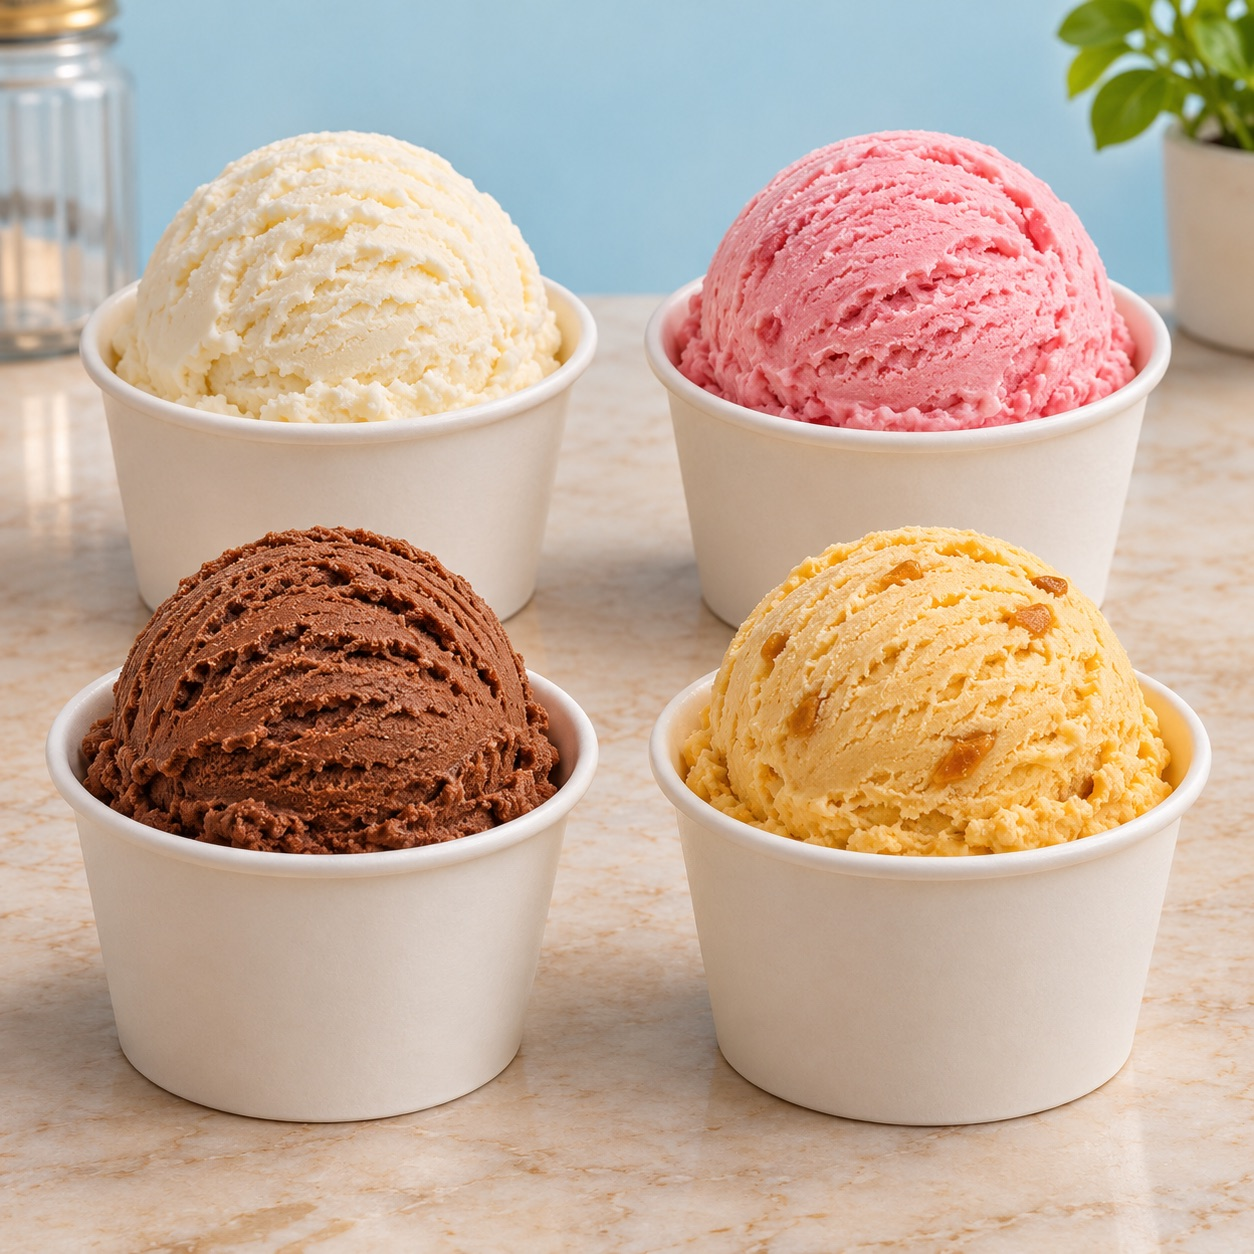
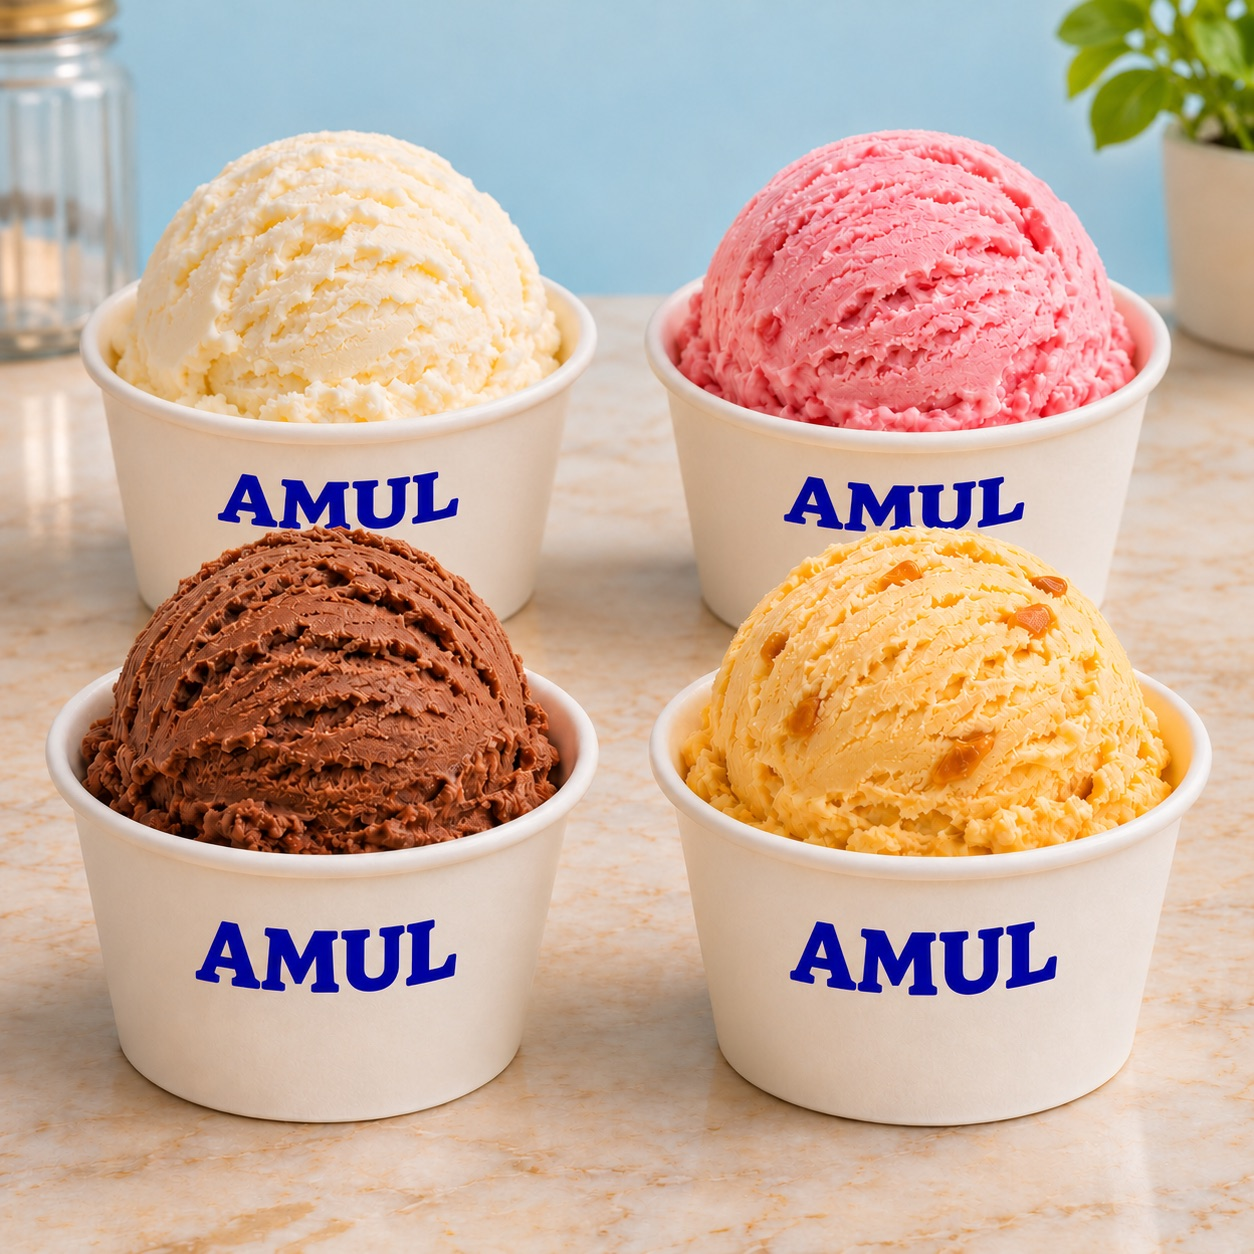
Finish TV ad and branded scoop photos

diff --git a/cafe-app/public/ads/ads.css b/cafe-app/public/ads/ads.css
@@ -7,3 +7,110 @@
 .stage-live.is-stale{color:#ffd7c5}.stage-live.is-stale i{background:#ffce9f}
 @media(min-width:1200px){.slide-item{font-size:clamp(16px,1vw,20px);padding:13px 18px}.slide-note{font-size:17px}.stage-live,.slide-count,.slide-kicker{font-size:13px}}
 @media(max-width:760px){.stage{height:auto;min-height:0;background:radial-gradient(circle at 85% 18%,#705a58 0,#19354b 42%)}.stage::before,.stage::after{display:none}.slide{flex:none}.stage:fullscreen{overflow-y:auto}}
+
+/* Natural presentation palette for the in-café television. */
+:root{color:#29423d;background:#f6f3ea}
+body{background:#f6f3ea}
+.site-header{background:#f7f4eb;color:#29423d;border-bottom:1px solid #dbe4d8}
+.brand-mark{background:#e4edf1;color:#1767a6}
+.brand b{color:#1767a6}
+.brand small{color:#537365}
+.header-links a:not(.header-cta){color:#345b50}
+.header-cta{background:#1767a6;color:#fff}
+.stage{height:calc(100svh - 76px);min-height:650px;background:linear-gradient(118deg,#e8f0e7 0%,#f2f3e9 52%,#e3ece3 100%);color:#25443e}
+.stage::before{top:-24%;right:-12%;background:radial-gradient(circle,#bbd1bd99 0,#bbd1bd33 55%,transparent 72%)}
+.stage::after{bottom:-42%;left:-11%;background:radial-gradient(circle,#fff9e8d9 0,#fff9e844 55%,transparent 72%)}
+.stage-grain{opacity:.055}
+.stage-live,.slide-kicker{color:#476e58}
+.stage-live i{background:#89a889;box-shadow:0 0 0 5px #89a88922}
+.slide-count{color:#527465}
+.slide{max-width:1750px}
+.slide-copy h1,.slide-copy h2{font-size:clamp(58px,6.25vw,140px);line-height:1.02;color:#24433c}
+.slide-copy h1 em,.slide-copy h2 em{color:#1767a6}
+.slide-description{color:#4a665a;font-size:clamp(19px,1.7vw,31px)}
+.slide-item{border-color:#c5d6c6;background:#fffcf3dc;color:#29483f;box-shadow:0 5px 18px #41644e0b}
+.slide-item strong,.slide-note{color:#1767a6}
+.slide-visual::before{background:#cfddcb;box-shadow:0 0 0 26px #ffffff55,0 0 0 58px #ffffff34}
+.slide-visual img{box-shadow:0 30px 70px #3c5b4a3b}
+.slide-sticker{background:#f6eddb;color:#2b5144;border:1px solid #d7ddce;box-shadow:0 12px 30px #2d4d3940}
+.stage-loading{color:#426c55}
+.progress-track{background:#bbccc0}
+.progress-track span{background:#1767a6}
+.control-label{color:#527365}
+.control-buttons button{background:#fffdf8bb;border-color:#b5cabc;color:#25443e}
+.control-buttons button:hover{background:#fff}
+.stage-loading button{background:#1767a6;color:#fff}
+.stage-live.is-stale{color:#8b624f}
+.stage-live.is-stale i{background:#b38768}
+.eyebrow{color:#527c5f}
+.period{color:#1767a6}
+.offers-section,.menu-section{background:#f6f3ea}
+.section-heading p{color:#65796c}
+.offer-card{background:#edf2e8;border-color:#d2dfd0;color:#25443e}
+.offer-card:nth-child(3n+2){background:#f7f1e4;border-color:#e5ddc8}
+.offer-card:nth-child(3n){background:#e9f0eb;border-color:#cadbce}
+.offer-card::after{color:#ffffff80}
+.offer-badge{background:#dfeaf1;color:#1767a6}
+.offer-card p{color:#587164}
+.category-nav{background:#f6f3ea}
+.category-nav a{border-color:#d6dfd1;background:#fffdf7;color:#315749}
+.category-nav a:hover{background:#e5eee3}
+.category-number{color:#5f7f68}
+.category-heading p{color:#708276}
+.menu-card{border-color:#dfe7dc;box-shadow:0 8px 20px #415e4810}
+.menu-photo{background:linear-gradient(135deg,#e6eee2,#f4e8d8)}
+.menu-price{color:#1767a6}
+.menu-card p{color:#6b8073}
+.end-card{background:#e3eee3;color:#28473d;border:1px solid #ccddcb}
+.end-card .eyebrow{color:#5c8265}
+.end-card p{color:#557263}
+.end-card a{background:#1767a6;color:#fff}
+.site-footer{background:#ecf1e8;color:#476452;border-top:1px solid #d7e2d5}
+.site-footer b{color:#1767a6}
+
+@media(min-width:1200px){
+  .site-header{min-height:82px;padding-inline:clamp(40px,5vw,100px)}
+  .brand-mark{width:48px;height:48px;font-size:32px}
+  .brand b{font-size:25px}
+  .brand small{font-size:11px}
+  .header-links a{font-size:17px}
+  .stage{height:calc(100svh - 82px);min-height:620px}
+  .stage-top{padding-top:32px}
+  .slide{grid-template-columns:minmax(0,1.05fr) minmax(0,.95fr);padding-top:36px;padding-bottom:48px}
+  .slide-kicker,.stage-live,.slide-count{font-size:16px}
+  .slide-description{max-width:650px}
+  .slide-item{font-size:clamp(18px,1.1vw,23px);padding:15px 21px}
+  .slide-note{font-size:20px}
+  .slide-visual img{width:min(98%,720px);max-height:min(68vh,760px)}
+  .slide-sticker{width:clamp(140px,10vw,190px);font-size:clamp(17px,1.2vw,22px)}
+  .control-label{font-size:15px}
+  .control-buttons button{min-width:50px;min-height:50px;font-size:16px}
+  .control-buttons #play-pause{min-width:82px}
+}
+@media(max-width:760px){
+  .stage{height:auto;min-height:0;background:radial-gradient(circle at 85% 18%,#d2e0d1 0%,#edf2e7 50%,#f8f4e8 100%)}
+  .stage::before,.stage::after{display:none}
+  .slide{flex:none}
+  .slide-copy h1,.slide-copy h2{font-size:clamp(45px,10vw,74px)}
+  .slide-description{font-size:16px}
+  .slide-item{font-size:11px}
+  .stage:fullscreen{overflow-y:auto}
+}
+@media(max-width:480px){
+  .slide-copy h1,.slide-copy h2{font-size:clamp(39px,10vw,55px)}
+  .slide-description{font-size:14px}
+  .slide-item{font-size:10px}
+}
+@media(min-width:761px){
+  .stage{background:radial-gradient(ellipse at 83% 18%,#d8e7d8 0%,transparent 39%),radial-gradient(ellipse at 9% 88%,#f8f1df 0%,transparent 42%),linear-gradient(118deg,#e9f0e7,#f4f2e8 55%,#e7efe5)}
+  .stage::before,.stage::after{display:none}
+  .stage-top{padding-top:18px}
+  .slide{padding-top:10px;padding-bottom:10px}
+  .slide-copy h1,.slide-copy h2{font-size:clamp(55px,5.6vw,112px);margin:12px 0 16px}
+  .slide-description{font-size:clamp(18px,1.5vw,28px);margin-bottom:18px}
+  .slide-items{gap:8px}
+  .slide-item{padding:10px 14px}
+  .slide-visual{min-height:0}
+  .slide-visual img{max-height:min(58vh,610px)}
+  .stage-controls{padding-bottom:14px}
+}

diff --git a/cafe-app/public/ads/index.html b/cafe-app/public/ads/index.html
@@ -3,7 +3,7 @@
 <head>
   <meta charset="utf-8">
   <meta name="viewport" content="width=device-width, initial-scale=1, viewport-fit=cover">
-  <meta name="theme-color" content="#152a3f">
+  <meta name="theme-color" content="#f6f3ea">
   <meta name="description" content="Explore Amul Ice Cream Café favourites, current offers, and the complete café menu.">
   <link rel="icon" href="/icon.svg" type="image/svg+xml">
   <link rel="stylesheet" href="/ads/ads.css">

diff --git a/cafe-app/README.md b/cafe-app/README.md
@@ -13,13 +13,16 @@ Use one address for the whole café: `https://frostflow-cafe.manideepyeredla2301
 | `/pos/` | Tablet and retail counter orders, payment records, receipts |
 | `/kitchen/` | Live prepared-food queue and cook instructions |
 | `/admin/` | Owner catalogue, stock, reports, staff, offers, settings |
+| `/ads/` | Looping café commercial for a TV, plus the complete customer menu |
 | `/kitchen/qr.html` | Managed and printable QR cards |
 
 All pages use the same database-backed API. New QR orders have an active managed QR ID. Staff POS orders do not need a QR code. Retail-only transactions complete without a kitchen ticket; a promotional free prepared item still creates a kitchen ticket. Customer checkout never collects money or marks a payment complete. Cash, UPI, and card are recorded manually by staff after the payment happens outside the site. Checkout takes the customer's name and Indian mobile number. The POS **Billed orders** screen shows recent QR and counter orders, including paid and unpaid orders; **Held orders** shows saved carts separately. A bill can be opened, printed, or prepared as a WhatsApp message for staff to send manually.
 
 The former `frostflow-pos` address redirects its page entries to the POS on the café address. Staff should use the café address above for a single sign-in and shared navigation. Deploy the legacy redirect with `npm run deploy:pos` when its Worker changes.
 
-The seed migration imports the 68 finalized café products and prices, including ₹90 veg and ₹120 chicken burgers with an optional ₹10 cheese slice. The retail migration adds 243 distinct products from FrostFlow's curated Amul catalogue to the staff POS, including all 167 listed ice creams. Retail categories remain hidden from customer QR ordering. Current printed MRPs are used as price candidates; 45 products with missing or conflicting prices or pack details need owner review before sale. A separate opening-stock migration adds 20 pieces per packaged SKU (4,860 pieces total), with individual inventory movements and batches; café stock remains separate from FrostFlow distribution inventory. Batch expiry dates were not supplied. The 48 distinct matched source pack photos are included; other products show an image placeholder until an accurate photo is uploaded. Every prepared café product has a distinct original photo at `public/images/products/<product-id>.jpg` and editable preparation steps. Uploaded replacement photos are cropped in the admin browser and persisted in D1 as image BLOBs because R2 is not enabled on this account. The upload limit is 1 MB when stored in D1. Admin bulk import accepts CSV and `.xlsx` Excel files.
+The seed migrations import 79 prepared café products and prices, including ₹90 veg and ₹120 chicken burgers with an optional ₹10 cheese slice. Eleven regular ice-cream scoops are sold at the listed cup prices, with a cone option for ₹10 extra; Pineapple is ₹40. Each scoop has its own blue-AMUL cup photo and cook steps. The retail migration adds 243 distinct products from FrostFlow's curated Amul catalogue to the staff POS, including all 167 listed packaged ice creams. Retail categories remain hidden from customer QR ordering. Current printed MRPs are used as price candidates; 45 products with missing or conflicting prices or pack details need owner review before sale. A separate opening-stock migration adds 20 pieces per packaged SKU (4,860 pieces total), with individual inventory movements and batches; café stock remains separate from FrostFlow distribution inventory. Batch expiry dates were not supplied. The 48 distinct matched source pack photos are included; other products show an image placeholder until an accurate photo is uploaded. Every prepared café product has a distinct original photo at `public/images/products/<product-id>.jpg` and editable preparation steps. Uploaded replacement photos are cropped in the admin browser and persisted in D1 as image BLOBs because R2 is not enabled on this account. The upload limit is 1 MB when stored in D1. Admin bulk import accepts CSV and `.xlsx` Excel files.
+
+The `/ads/` display is designed for a 16:9 TV, with a 42-second loop when an offer is active (36 seconds without one), large text, natural cream and sage colours, and blue AMUL lettering. It shows all customer-visible menu categories and prices beneath the highlights. Playback, next/previous, and full-screen controls are on the display. It reloads the public menu and currently usable offers every five minutes; owner changes in Admin appear on the next refresh. The former POS site redirects `/ads` page visits to this canonical café address.
 
 ## Code and storage
 

diff --git a/cafe-app/docs/owner-guide.md b/cafe-app/docs/owner-guide.md
@@ -6,12 +6,14 @@ Open `https://frostflow-cafe.manideepyeredla2301.workers.dev/` and tap **Staff**
 
 The top of Admin has **Product catalogue**, **+ Add product**, **Staff**, **Orders & bills**, and **Open POS** shortcuts. The sidebar also has Overview, Products, Categories, Inventory, Orders & payments, Reports, Offers, QR codes, Staff, and Settings. POS and Kitchen are on this same café address at `/pos/` and `/kitchen/`. Catalogue and product creation are shown to the owner or staff with catalogue permission.
 
+For the TV commercial, open `/ads/` on the same address (or tap **Open the café ad display** from the Staff page). Use **Full screen** on the TV browser and keep that tab open. The 42-second highlight loop has Pause/Play and next/previous controls; the full menu is below it. Prices, availability, and current offers refresh from the café menu every five minutes. Change a product in **Products** or an offer in **Offers** to update the display without rebuilding it.
+
 ## Add or change a menu item
 
 1. Tap **+ Add product** at the top of Admin or in **Product catalogue**. Pick the category and choose **Prepared** for café food or drink, or **Retail** for a packaged product.
 2. Enter the selling price, name, description, and availability. Add GST only if it applies to that item; the system does not assume one rate for every product.
 3. Upload a photo. Adjust the square crop and preview it, then save. Replacement photos persist in the café database. Keep uploads under 1 MB while database image storage is active.
-4. Add option groups for variants and extras. The initial burgers already have one optional Amul cheese slice at ₹10. The sundae configurator enforces scoop, serving, sauce, and topping rules.
+4. Add option groups for variants and extras. The initial burgers already have one optional Amul cheese slice at ₹10. The eleven regular Scoops have a cup choice at the listed price and a cone for ₹10 extra. The sundae configurator enforces scoop, serving, sauce, and topping rules.
 5. Enter **Kitchen steps** for prepared items. These steps appear on every kitchen ticket and can be edited without changing code.
 6. Save and check the public menu or POS. Use **Sold out** or **Unavailable** when an item should stop accepting new orders; existing orders keep their original price and details.
 
@@ -33,7 +35,7 @@ Counter checkout requires a customer name and a valid Indian mobile number. The 
 
 ## Offers and QR cards
 
-The initial offer gives one **Salted Fries at ₹0** when eligible ice cream purchases are **strictly above ₹250**. Burgers, sandwiches, coffee, frappes, and snacks do not count toward that threshold. The free item appears on the customer order, receipt, and kitchen ticket. Change or disable the offer in **Offers**.
+The initial offer gives one **Salted Fries at ₹0** when eligible ice cream purchases, including Scoops, are **strictly above ₹250**. Burgers, sandwiches, coffee, frappes, and snacks do not count toward that threshold. The free item appears on the customer order, receipt, and kitchen ticket. Change or disable the offer in **Offers**; `/ads/` shows only currently usable offers.
 
 In **QR codes**, manage the general, counter pickup, takeaway, and table codes. Disable a lost or retired code; it will stop accepting new orders. Print cards from **QR cards** or the supplied printable PDF. Check that a table card opens with the correct table number before placing it on a table. The initial print set includes tables 1–12; create further managed codes in Admin before printing their cards. Packaged Amul categories are not visible through these QR codes unless the owner later enables them for QR ordering.
 

diff --git a/cafe-app/docs/staff-guide.md b/cafe-app/docs/staff-guide.md
@@ -19,6 +19,8 @@ If a customer says an order did not appear, ask for the order number or tracking
 
 An owner or staff member with catalogue permission can use the **Catalogue** and **Add product** shortcuts in POS. The owner can also use the **Staff** shortcut. These controls open Admin on the same café address.
 
+To show the café commercial on a TV, open **Staff → Open the café ad display** or go to `/ads/` on the café address. Tap **Full screen** in the TV browser. The highlights loop automatically, with Pause/Play and next/previous buttons; the complete customer menu is below. The display refreshes prices and current offers every five minutes. If an item is sold out, the menu marks it unavailable.
+
 Imported packaged products appear in POS by name and SKU. A product marked **Price pending** or **Sold out** cannot be added until the owner verifies its price and café stock. Do not substitute a different pack size or flavour when the requested one is unavailable.
 
 ### When the connection fails
@@ -40,6 +42,7 @@ Follow the exact choices on the ticket. For example:
 - **Frappes, cold coffees, shakes:** check the named flavour and garnish; use the café's approved recipe and a 300 ml clear cup. Use a dome lid when served takeaway and appropriate.
 - **Premium sundaes:** check the named ice cream and toppings; serve in a 200 ml paper cup.
 - **Build Your Own Sundae:** follow scoop count, flavours, cup/cone/bowl, sauce, topping, and paid extras. Waffle cones allow only one scoop, one sauce, and one dry topping, with no jelly or whipped cream.
+- **Regular Scoops:** use one regular scoop of the ordered flavour. Serve it in a cup at the listed price or in a cone when selected (+₹10). Pineapple is ₹40 in a cup.
 - **Sandwiches:** use two slices of bread, the chosen bread type and extras, and the filling on the ticket. Cook chicken and egg fillings fully before serving.
 
 The owner can correct or expand any item's cook steps in Admin → Products. If a house recipe, ingredient quantity, or food safety detail has not been approved by the café, ask the owner before improvising.
